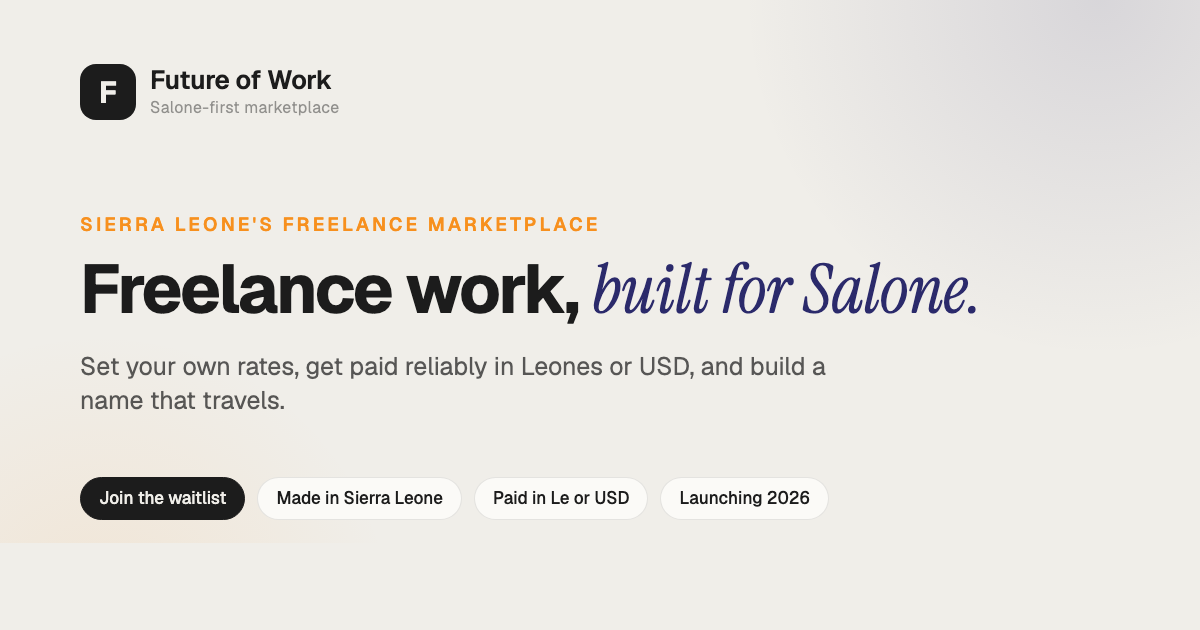
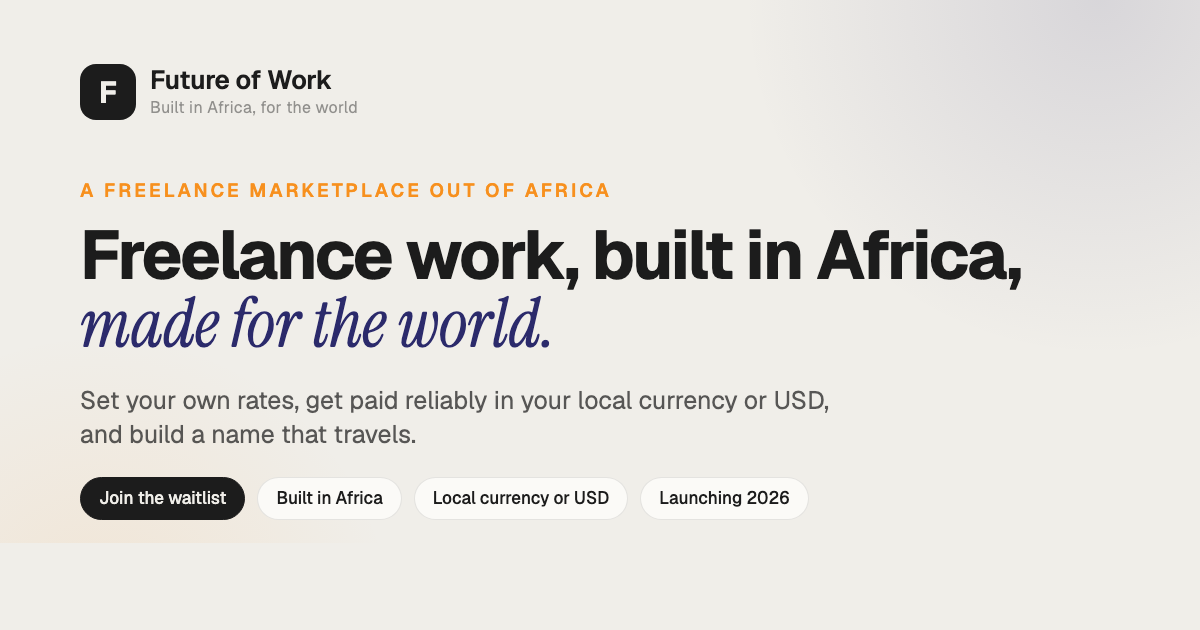
Reword OG share card and re-render the PNG
Match the new headline ("built in Africa, made for the world") and
update the fact pills; regenerate public/og-image.png from the source.

diff --git a/design/og-image.html b/design/og-image.html
@@ -49,7 +49,7 @@
         flex-direction: column;
         justify-content: center;
       }
-      /* Soft gara-indigo wash in the top-right, echoing the site's quiet accents. */
+      /* Soft indigo wash in the top-right, echoing the site's quiet accents. */
       .card::before {
         content: '';
         position: absolute;
@@ -177,23 +177,23 @@
         <div class="mark">F</div>
         <div class="wordmark">
           <b>Future of Work</b>
-          <span>Salone-first marketplace</span>
+          <span>Built in Africa, for the world</span>
         </div>
       </div>
 
       <div class="row">
-        <div class="eyebrow">Sierra Leone's freelance marketplace</div>
-        <h1>Freelance work, <i>built for Salone.</i></h1>
+        <div class="eyebrow">A freelance marketplace out of Africa</div>
+        <h1>Freelance work, built in Africa, <i>made for the world.</i></h1>
         <div class="sub">
-          Set your own rates, get paid reliably in Leones or USD, and build a
-          name that travels.
+          Set your own rates, get paid reliably in your local currency or USD,
+          and build a name that travels.
         </div>
       </div>
 
       <div class="row facts">
         <span class="pill solid">Join the waitlist</span>
-        <span class="pill">Made in Sierra Leone</span>
-        <span class="pill">Paid in Le or USD</span>
+        <span class="pill">Built in Africa</span>
+        <span class="pill">Local currency or USD</span>
         <span class="pill">Launching 2026</span>
       </div>
     </div>
